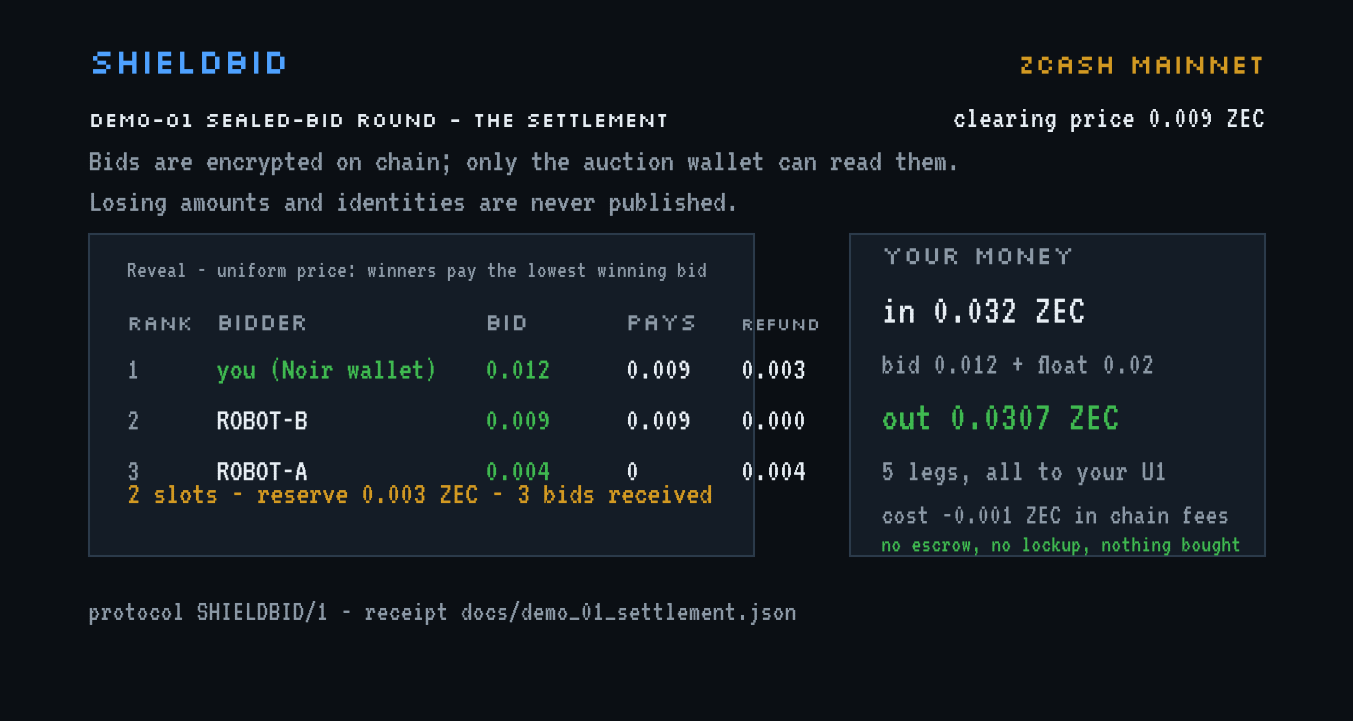
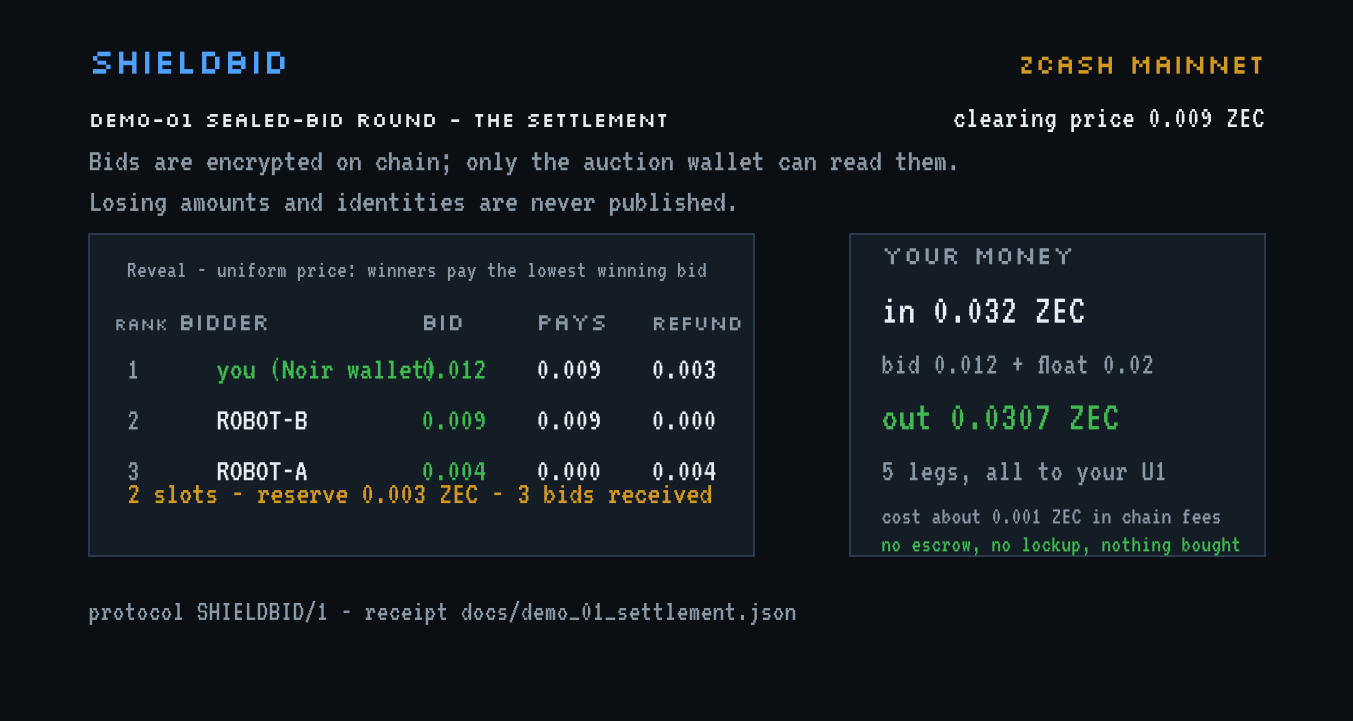
settlement card: keep the refund column inside the box; read the fee line as 'about 0.001'

diff --git a/tools/make_result_card.py b/tools/make_result_card.py
@@ -28,11 +28,18 @@ C.fit(ax, 4, 37.2, "Losing amounts and identities are never published.", 92, siz
 C.box(ax, 4, 10.0, 52, 25.4)
 C.fit(ax, 7, 32.0, "Reveal - uniform price: winners pay the lowest winning bid",
       46, size=16, color=C.DIM)
-for x, w, label in ((7, 5, "rank"), (14, 19, "bidder"), (35, 9, "bid"),
-                    (46, 8, "pays"), (55, 6, "refund")):
+for x, w, label in ((6, 4.0, "rank"), (11, 17, "bidder"), (30, 8, "bid"),
+                    (39, 8, "pays"), (48, 7, "refund")):
     C.fit(ax, x, 27.8, label, w, size=11, head=True, color=C.DIM)
 def _n(v):
     return v if isinstance(v, str) else f"{v:g}"
+
+
+def _z(v, dec=3):
+    try:
+        return f"{float(v):.{dec}f}"
+    except (TypeError, ValueError):
+        return str(v)
 
 
 for i, r in enumerate(ST.get("settlement", [])):
@@ -40,9 +47,9 @@ for i, r in enumerate(ST.get("settlement", [])):
     C.fit(ax, 7, y, str(r.get("rank", "")), 5, size=15, color=C.DIM)
     C.fit(ax, 14, y, SHORT.get(r.get("bidder", ""), str(r.get("bidder", ""))), 19, size=16,
           color=C.GOOD if i == 0 else C.TXT)
-    C.fit(ax, 35, y, _n(r.get("amount", 0)), 9, size=16, color=C.GOOD)
-    C.fit(ax, 46, y, _n(r.get("pays", 0)), 8, size=16, color=C.TXT)
-    C.fit(ax, 55, y, _n(r.get("refund", 0)), 6, size=16, color=C.TXT)
+    C.fit(ax, 30, y, _z(r.get("amount", 0)), 8, size=16, color=C.GOOD)
+    C.fit(ax, 39, y, _z(r.get("pays", 0)), 8, size=16, color=C.TXT)
+    C.fit(ax, 48, y, _z(r.get("refund", 0)), 7, size=16, color=C.TXT)
 note = (f"{ST['slots']} slots - reserve {_n(ST['reserve'])} ZEC - "
         f"{ST['bids_received']} bids received")
 C.fit(ax, 7, 14.2, note, 50, size=16, color=C.WARN, wrap=1)
@@ -53,7 +60,7 @@ C.fit(ax, 66, 28.4, f"in {_n(MT['in_total_from_user'])} ZEC", 28, size=20, color
 C.fit(ax, 66, 24.4, f"bid {_n(ST['settlement'][0]['amount'])} + float 0.02", 28, size=15, color=C.DIM)
 C.fit(ax, 66, 20.0, f"out {_n(MT['out_to_user'])} ZEC", 28, size=20, color=C.GOOD)
 C.fit(ax, 66, 16.0, "5 legs, all to your U1", 28, size=15, color=C.DIM)
-C.fit(ax, 66, 12.6, "cost -0.001 ZEC in chain fees", 28, size=15, color=C.DIM)
+C.fit(ax, 66, 12.6, "cost about 0.001 ZEC in chain fees", 28, size=15, color=C.DIM)
 C.fit(ax, 66, 10.4, "no escrow, no lockup, nothing bought", 28, size=14, color=C.GOOD)
 
 C.T(ax, 4, 5.0, f"protocol SHIELDBID/1 - receipt docs/demo_01_settlement.json",
